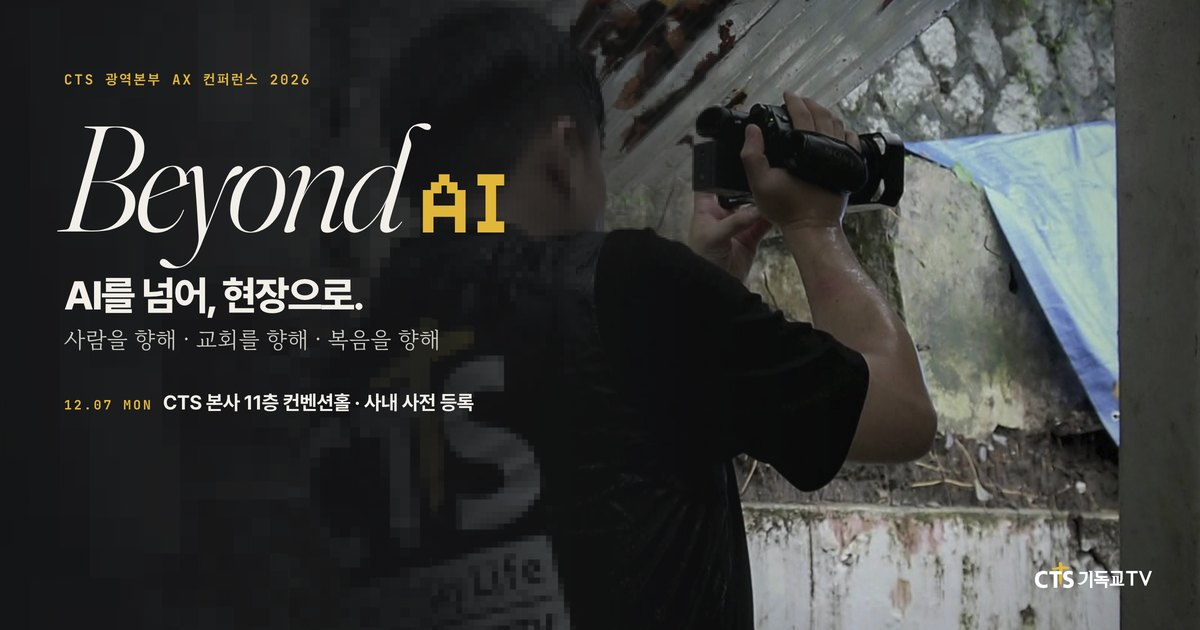
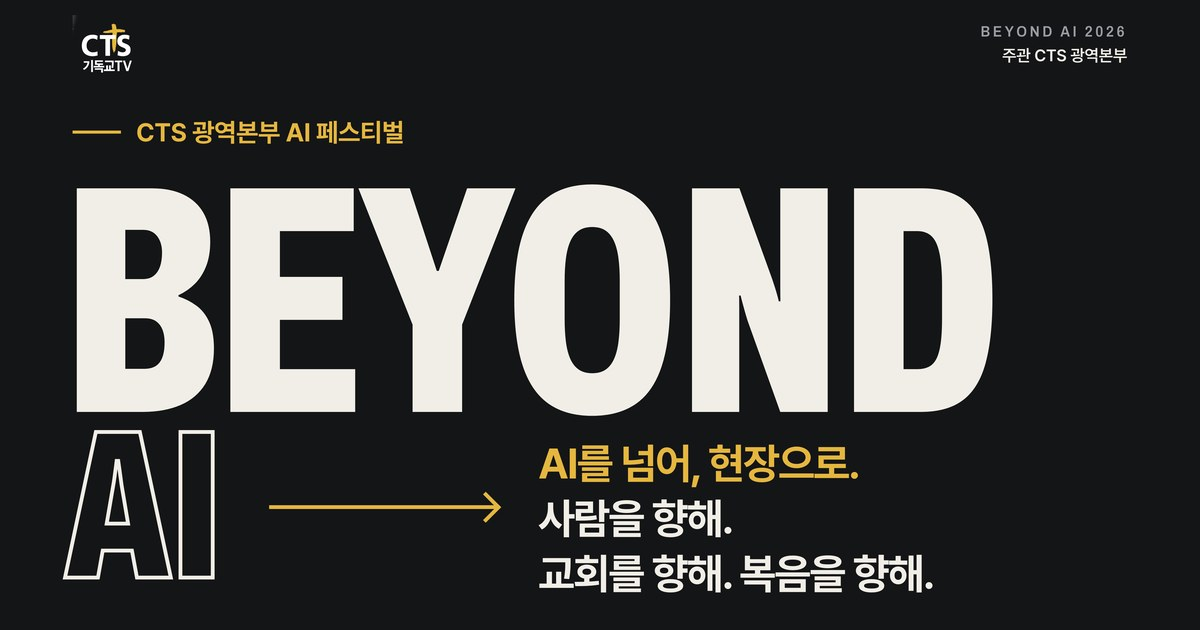
AI 페스티벌 구성 반영: 오전 핵심 발표, 오후 전 직원 3분, 주관 광역본부

diff --git a/index.html b/index.html
@@ -4,11 +4,11 @@
 <meta charset="utf-8">
 <meta name="viewport" content="width=device-width,initial-scale=1,viewport-fit=cover">
 <meta name="robots" content="noindex,nofollow">
-<title>Beyond AI 2026 · CTS 광역본부 AX 컨퍼런스</title>
-<meta name="description" content="AI를 넘어, 현장으로. 사람을 향해, 교회를 향해, 복음을 향해. 2026년 12월 7일(월) CTS 본사 11층 컨벤션홀. 사내 사전 등록자 입장.">
+<title>Beyond AI 2026 · CTS 광역본부 AI 페스티벌</title>
+<meta name="description" content="AI를 넘어, 현장으로. 사람을 향해, 교회를 향해, 복음을 향해. 2026년 12월 7일(월) CTS 본사 11층 컨벤션홀. 주관 CTS 광역본부. 타 본부와 자회사 임직원은 사전 등록 후 참여.">
 <meta property="og:type" content="website">
 <meta property="og:title" content="Beyond AI 2026 · AI를 넘어, 현장으로">
-<meta property="og:description" content="CTS 광역본부 AX 컨퍼런스 · 2026.12.07(월) CTS 컨벤션홀 11층 · 사내 사전 등록">
+<meta property="og:description" content="CTS 광역본부 AI 페스티벌 · 2026.12.07(월) 10:00~16:00 CTS 본사 11층 컨벤션홀 · 사전 등록">
 <meta property="og:image" content="https://bakcine1-boop.github.io/beyond-ai-2026/og.jpg">
 <meta property="og:image:width" content="1200"><meta property="og:image:height" content="630">
 <meta property="og:url" content="https://bakcine1-boop.github.io/beyond-ai-2026/">
@@ -18,7 +18,7 @@
 <link rel="preconnect" href="https://fonts.googleapis.com">
 <link rel="preconnect" href="https://fonts.gstatic.com" crossorigin>
 <link rel="preconnect" href="https://cdn.jsdelivr.net" crossorigin>
-<link href="https://fonts.googleapis.com/css2?family=Fraunces:ital,opsz,wght@0,9..144,300..600;1,9..144,300..500&family=JetBrains+Mono:wght@400;500;700&family=Pixelify+Sans:wght@500..700&display=swap" rel="stylesheet">
+<link href="https://fonts.googleapis.com/css2?family=Archivo:wdth,wght@62..100,600..800&family=Fraunces:ital,opsz,wght@0,9..144,300..600;1,9..144,300..500&family=JetBrains+Mono:wght@400;500;700&family=Pixelify+Sans:wght@500..700&display=swap" rel="stylesheet">
 <link rel="stylesheet" href="https://cdn.jsdelivr.net/gh/orioncactus/pretendard@v1.3.9/dist/web/variable/pretendardvariable-dynamic-subset.min.css">
 <link rel="preload" as="image" href="hero-poster.jpg">
 <style>
@@ -33,8 +33,8 @@
   --sans:'Pretendard Variable',Pretendard,-apple-system,BlinkMacSystemFont,'Apple SD Gothic Neo','Malgun Gothic',sans-serif;
   --serif:'Fraunces',Georgia,serif;
   --maru:'Maru','Pretendard Variable',serif;
-  --mono:'JetBrains Mono',ui-monospace,SFMono-Regular,Menlo,monospace;
-  --pix:'Pixelify Sans','JetBrains Mono',monospace;
+  --mono:'JetBrains Mono','Pretendard Variable',Pretendard,ui-monospace,Menlo,monospace;
+  --pix:'Pixelify Sans','Pretendard Variable',Pretendard,monospace;
   --ease:cubic-bezier(.2,.8,.16,1);--io:cubic-bezier(.76,0,.24,1);
   --pad:clamp(20px,4.4vw,76px);--max:1380px;
 }
@@ -118,10 +118,10 @@ button,input,select,textarea{font:inherit;color:inherit}
 .hero-in .wrap{display:grid;grid-template-columns:minmax(0,1fr) auto;gap:clamp(24px,4vw,64px);align-items:end}
 .eyebrow-h{font:500 12px/1 var(--mono);letter-spacing:.2em;color:var(--gold);text-transform:uppercase;margin-bottom:clamp(14px,2.2vh,24px);display:flex;gap:14px;align-items:center}
 .eyebrow-h::before{content:'';width:34px;height:1px;background:var(--gold)}
-.lockup{font-family:var(--serif);font-style:italic;font-weight:300;font-size:clamp(78px,14.4vw,236px);line-height:.84;letter-spacing:-.045em;font-variation-settings:'opsz' 144;display:flex;align-items:baseline;flex-wrap:wrap;margin-left:-.04em}
-.lockup .w{display:inline-block;overflow:hidden;padding:0 .06em .08em 0}
+.lockup{font-family:'Archivo',sans-serif;font-stretch:62%;font-weight:800;text-transform:uppercase;font-size:clamp(84px,15.6vw,252px);line-height:.86;letter-spacing:-.01em;display:flex;align-items:baseline;flex-wrap:wrap;margin-left:-.02em}
+.lockup .w{display:inline-block;overflow:hidden;padding:0 .04em .04em 0}
 .lockup .w>span{display:inline-block;transform:translateY(105%)}
-.lockup .ai{font-family:var(--pix);font-style:normal;font-weight:600;font-size:.6em;letter-spacing:.01em;color:var(--gold);margin-left:.22em;line-height:1}
+.lockup .ai{font-size:.66em;color:transparent;-webkit-text-stroke:2.5px var(--paper);margin-left:.14em;line-height:1;letter-spacing:0}
 .go .lockup .w>span{transform:none;transition:transform 1.25s var(--ease)}
 .go .lockup .w:nth-child(2)>span{transition-delay:.12s}
 .hero-ko{margin-top:clamp(18px,3vh,32px);display:flex;flex-wrap:wrap;align-items:baseline;gap:6px 22px}
@@ -404,8 +404,8 @@ footer .cr{width:100%;font:500 11.5px/1.6 var(--mono);letter-spacing:.06em;color
   .nav{height:60px}
   .hero .real{top:76px}
   .vctl{top:70px}
-  .lockup{font-size:clamp(70px,22vw,120px)}
-  .lockup .ai{margin-left:.16em}
+  .lockup{font-size:clamp(76px,24vw,128px)}
+  .lockup .ai{margin-left:.1em;-webkit-text-stroke:1.6px var(--paper)}
   .hero-ko b{font-size:22px;width:100%}
   .hero-ko span{font-size:16px}
   .hero-cta .btn{flex:1}
@@ -435,7 +435,7 @@ footer .cr{width:100%;font:500 11.5px/1.6 var(--mono);letter-spacing:.06em;color
 <div id="ld" aria-hidden="true">
   <div class="cw" id="ldw"><canvas id="ldc"></canvas></div>
   <div class="fr" id="ldf"><span class="res" id="ldr"><b>AI</b>72px</span></div>
-  <div class="tl"><span>Beyond AI 2026</span><span>CTS 광역본부 AX 컨퍼런스</span></div>
+  <div class="tl"><span>Beyond AI 2026</span><span>CTS 광역본부 AI 페스티벌</span></div>
   <p class="cap" id="ldcap"><span id="c1">AI를 넘어,</span> <span id="c2" class="g">현장으로.</span></p>
   <div class="bl"><span class="num" id="ldn">000<i>%</i></span><span>12.07 Mon — CTS Convention Hall 11F</span></div>
 </div>
@@ -445,14 +445,14 @@ footer .cr{width:100%;font:500 11.5px/1.6 var(--mono);letter-spacing:.06em;color
     <a class="brand" href="#top" aria-label="Beyond AI 2026 처음으로"><img src="cts-w.png" alt="CTS 기독교TV"><span>BEYOND AI 2026</span></a>
     <nav class="menu" aria-label="주요 메뉴">
       <a href="#about">소개</a><a href="#program">프로그램</a><a href="#voices">전원 발표</a><a href="#join">참여</a><a href="#venue">오시는 길</a>
-      <a class="room" href="room.html" title="광역본부 직원 전용"><svg width="12" height="12" viewBox="0 0 24 24" fill="none" stroke="currentColor" stroke-width="2"><rect x="4" y="10" width="16" height="11" rx="2"/><path d="M8 10V7a4 4 0 0 1 8 0v3"/></svg>준비실</a>
+      <a class="room" href="survey.html" title="광역본부 직원 전용"><svg width="12" height="12" viewBox="0 0 24 24" fill="none" stroke="currentColor" stroke-width="2"><rect x="4" y="10" width="16" height="11" rx="2"/><path d="M8 10V7a4 4 0 0 1 8 0v3"/></svg>직원 설문</a>
     </nav>
     <a class="btn gold sm" href="#rsvp">사전 등록</a>
     <button class="burger" id="burger" aria-label="메뉴 열기" aria-expanded="false"><i></i><i></i></button>
   </div>
 </header>
 <nav class="mnav" id="mnav" aria-label="모바일 메뉴">
-  <a href="#about">소개<small>01</small></a><a href="#direction">네 개의 방향<small>02</small></a><a href="#program">프로그램<small>03</small></a><a href="#voices">전원 발표<small>04</small></a><a href="#join">참여<small>05</small></a><a href="#venue">오시는 길<small>07</small></a><a href="room.html">발표 준비실<small>직원 전용</small></a>
+  <a href="#about">소개<small>01</small></a><a href="#direction">네 개의 방향<small>02</small></a><a href="#program">프로그램<small>03</small></a><a href="#voices">전원 발표<small>04</small></a><a href="#join">참여<small>05</small></a><a href="#venue">오시는 길<small>07</small></a><a href="survey.html">광역본부 직원 설문<small>직원 전용</small></a>
   <a class="btn gold" href="#rsvp">사전 등록하기</a>
 </nav>
 
@@ -465,15 +465,16 @@ footer .cr{width:100%;font:500 11.5px/1.6 var(--mono);letter-spacing:.06em;color
   <div class="hero-in">
     <div class="wrap">
       <div>
-        <p class="eyebrow-h fx d1">CTS 광역본부 AX 컨퍼런스</p>
+        <p class="eyebrow-h fx d1">CTS 광역본부 AI 페스티벌</p>
         <h1 class="lockup" aria-label="Beyond AI"><span class="w"><span>Beyond</span></span><span class="w"><span class="ai">AI</span></span></h1>
         <p class="hero-ko fx d2"><b>AI를 넘어, 현장으로.</b><span>사람을 향해 · 교회를 향해 · 복음을 향해</span></p>
         <div class="hero-cta fx d3"><a class="btn gold" href="#rsvp">사전 등록하기<svg viewBox="0 0 24 24" fill="none" stroke="currentColor" stroke-width="2"><path d="M5 12h14M13 6l6 6-6 6"/></svg></a><a class="btn line" href="#program">프로그램 보기</a></div>
       </div>
       <dl class="meta fx d3">
-        <div><dt>DATE</dt><dd>2026. 12. 7. 오전 10시<small>MON</small></dd></div>
+        <div><dt>DATE</dt><dd>2026. 12. 7. 월<small>10:00~16:00</small></dd></div>
         <div><dt>VENUE</dt><dd>CTS 본사 11층 컨벤션홀</dd></div>
-        <div><dt>ENTRY</dt><dd>사내 사전 등록자</dd></div>
+        <div><dt>HOST</dt><dd>CTS 광역본부</dd></div>
+        <div><dt>ENTRY</dt><dd>CTS 임직원 사전 등록</dd></div>
         <div><dt>COUNTDOWN</dt><dd class="dd" id="dday">D-00</dd></div>
       </dl>
     </div>
@@ -527,7 +528,7 @@ footer .cr{width:100%;font:500 11.5px/1.6 var(--mono);letter-spacing:.06em;color
 <section class="sec dark" id="program">
   <div class="wrap">
     <div class="prog-top">
-      <div class="dir-head" style="margin-bottom:0"><div><p class="eyebrow rv"><span class="n">03</span>프로그램</p><h2 class="h2 rv d1">하루,<br><em>세 개의 장</em></h2></div><p class="lead rv d2">발제로 방향을 잡고, 전원 발표로 서로의 한 달을 보고, 선정과 선포로 2027년을 엽니다.</p></div>
+      <div class="dir-head" style="margin-bottom:0"><div><p class="eyebrow rv"><span class="n">03</span>프로그램</p><h2 class="h2 rv d1">오전은 핵심,<br><em>오후는 전 직원.</em></h2></div><p class="lead rv d2">오전 두 시간에 방향과 핵심 사례를 듣고, 오후에는 광역본부 전 직원이 한 사람씩 3분 동안 직접 해 본 일을 보여 드립니다. 오전만 참여하셔도 됩니다.</p></div>
       <div class="road rv d2" id="road" aria-label="준비 일정">
         <div class="ttl"><span>ROAD TO 12.07</span><b id="roadD">D-00</b></div>
         <div class="rail" id="rail"><i id="railFill"></i></div>
@@ -535,15 +536,10 @@ footer .cr{width:100%;font:500 11.5px/1.6 var(--mono);letter-spacing:.06em;color
     </div>
 
     <div class="part rv">
-      <div class="pl"><span class="mono">OPENING</span><h3>여는 시간</h3><p>Opening</p></div>
-      <div class="pr"><p>예배와 기도로 문을 엽니다. 11월 9일 킥오프부터 오늘까지, 광역본부 한 달의 기록을 영상으로 함께 봅니다.</p></div>
-    </div>
-
-    <div class="part rv">
-      <div class="pl"><span class="mono">PART 1</span><h3>발제</h3><p>Keynote</p></div>
+      <div class="pl"><span class="mono">10:00 – 12:00</span><h3>핵심 발표</h3><p>Morning Keynotes</p></div>
       <div class="pr">
         <div class="talks">
-          <article class="talk"><span class="k">KEYNOTE 01</span><h4>왜 Beyond AI인가</h4><p>AI First 엑소더스, 그다음 이야기. 광역본부가 AI로 무엇을 바꾸고 어디로 가려 하는지 큰 그림을 나눕니다.</p><div class="who"><b>강경원</b><span>부사장 · 광역본부장</span></div></article>
+          <article class="talk"><span class="k">KEYNOTE 01</span><h4>왜 Beyond AI인가</h4><p>AI First 엑소더스, 그다음 이야기. 광역본부가 AI로 무엇을 바꾸고 어디로 가려 하는지 큰 그림을 나눕니다.</p><div class="who"><b>강경원</b><span>부사장 · 광역본부장 · 진행</span></div></article>
           <article class="talk"><span class="k">KEYNOTE 02</span><span class="live">LIVE DEMO</span><h4>제작의 문법이 바뀌었다</h4><p>작가·성우·조연출 없이 만든 방송, 그리고 촬영부터 편집·음악·자막까지 이어지는 자동화를 무대에서 바로 보여 줍니다.</p><div class="who"><b>박대훈</b><span>국장 · 콘텐츠지원국 · 예정</span></div></article>
           <article class="talk"><span class="k">CASE STUDY</span><h4>현장에서 쓰는 AI</h4><p>뉴스 취재와 기사 작업에 AI를 어떻게 들였는지, 지역 현장의 실제 사례로 풀어 봅니다.</p><div class="who"><b>노찬영</b><span>총국장 · 호남총국 · 예정</span></div></article>
         </div>
@@ -551,26 +547,18 @@ footer .cr{width:100%;font:500 11.5px/1.6 var(--mono);letter-spacing:.06em;color
     </div>
 
     <div class="part rv">
-      <div class="pl"><span class="mono">PART 2</span><h3>전원 발표</h3><p>All Voices</p></div>
-      <div class="pr">
-        <p>광역본부 직원이 한 사람씩 무대에 섭니다. 지난 한 달 직접 해 본 일을 세 가지 주제로 나눠, 한 사람당 5분 안에 보여 줍니다.</p>
-        <div class="chips"><span class="chip g">Track 01 · 업무</span><span class="chip g">Track 02 · 교회</span><span class="chip g">Track 03 · 세상과의 소통</span><span class="chip">1인 5분</span><span class="chip">결과물 시연</span></div>
-      </div>
+      <div class="pl"><span class="mono">12:00 – 13:30</span><h3>점심</h3><p>Lunch</p></div>
+      <div class="pr"><p>오전만 참여하시는 분은 여기까지입니다. 오후 발표도 편하게 들르실 수 있습니다.</p></div>
     </div>
 
     <div class="part rv">
-      <div class="pl"><span class="mono">PART 3</span><h3>선정과 선포</h3><p>Pick &amp; Declare</p></div>
+      <div class="pl"><span class="mono">13:30 – 16:00</span><h3>전 직원 3분 발표</h3><p>All Voices</p></div>
       <div class="pr">
-        <p>현장 투표와 심사로 교회 현장에 바로 적용할 사례를 고르고, 2027년 시범 과제로 선포합니다.</p>
-        <div class="mini"><div><b>선정 기준</b>사명 기여 · 교회 수요 · 확산 가능성 · 지속성</div><div><b>결과</b>2027 파일럿 과제 확정</div><div><b>총평</b>강경원 부사장</div></div>
+        <p>전국 12개 지사와 본부의 광역본부 직원이 한 사람씩 무대에 섭니다. 지난 한 달 직접 해 본 일을 세 가지 영역으로 나눠 3분 안에 보여 줍니다. 마지막에 총평과 기도로 마칩니다.</p>
+        <div class="chips"><span class="chip g">업무</span><span class="chip g">교회</span><span class="chip g">세상과의 소통</span><span class="chip">1인 3분</span><span class="chip">결과물 시연</span></div>
       </div>
     </div>
-
-    <div class="part rv">
-      <div class="pl"><span class="mono">CLOSING</span><h3>마치는 시간</h3><p>Closing</p></div>
-      <div class="pr"><p>기도로 마칩니다. 이날 발표된 모든 사례는 행사 뒤 발표 준비실에 모아 함께 봅니다.</p></div>
-    </div>
-    <p class="note">* 오전 10시 시작. 세부 시간과 발표 순서는 확정되는 대로 이곳에 공개합니다.</p>
+    <p class="note">* 발표 제목과 순서는 확정되는 대로 이곳에 공개합니다.</p>
   </div>
 </section>
 
@@ -581,7 +569,7 @@ footer .cr{width:100%;font:500 11.5px/1.6 var(--mono);letter-spacing:.06em;color
       <p class="eyebrow rv"><span class="n">04</span>전원 발표</p>
       <h2 class="h2 rv d1">12개 지사에서,<br><em>한 사람씩.</em></h2>
       <p class="lead rv d2" style="margin-top:28px">12월 7일, 전국의 광역본부 직원이 본사로 올라옵니다. 누가 더 잘했는지를 겨루는 자리가 아니라, 서로의 한 달에서 배우는 자리입니다.</p>
-      <div class="stats rv d3"><div><b>40+</b><span>발표자</span></div><div><b>12</b><span>지사</span></div><div><b>3</b><span>트랙</span></div><div><b>5′</b><span>1인 발표</span></div></div>
+      <div class="stats rv d3"><div><b>40+</b><span>발표자</span></div><div><b>12</b><span>지사</span></div><div><b>3</b><span>트랙</span></div><div><b>3′</b><span>1인 발표</span></div></div>
     </div>
     <div class="rv d2">
       <div class="kmap" id="kmap" role="img" aria-label="전국 12개 지사에서 서울 본사로 모이는 지도"></div>
@@ -595,7 +583,7 @@ footer .cr{width:100%;font:500 11.5px/1.6 var(--mono);letter-spacing:.06em;color
       <article class="trk rv d2"><img src="t3-world.jpg" alt="강을 건너 현장으로 가는 CTS 직원" loading="lazy" style="object-position:62% 50%"><span class="no">TRACK 03</span><h3><small>세상에 말을 건 이야기</small>세상과의 소통</h3><p>뉴스, SNS, 영상으로 교회 밖 사람들과 만난 새로운 방법.</p></article>
     </div>
     <div class="rules rv">
-      <div class="rule"><span class="mono">RULE 01</span><h4>5분, 한 장면</h4><p>여러 개를 소개하기보다 가장 잘 된 한 가지를 깊게 보여 줍니다.</p></div>
+      <div class="rule"><span class="mono">RULE 01</span><h4>3분, 한 장면</h4><p>여러 개를 소개하기보다 가장 잘 된 한 가지를 깊게 보여 줍니다.</p></div>
       <div class="rule"><span class="mono">RULE 02</span><h4>전과 후를 숫자로</h4><p>걸리던 시간과 지금 걸리는 시간, 바뀐 결과를 숫자로 말합니다.</p></div>
       <div class="rule"><span class="mono">RULE 03</span><h4>사람이 확인한 것</h4><p>AI에게 맡긴 일과 사람이 직접 확인한 일을 나눠서 공개합니다.</p></div>
     </div>
@@ -612,16 +600,16 @@ footer .cr{width:100%;font:500 11.5px/1.6 var(--mono);letter-spacing:.06em;color
     <div class="join-grid">
       <article class="ev rv"><span class="lbl">LIVE CLINIC<i>01</i></span>
         <svg class="ic" viewBox="0 0 56 56" fill="none"><rect x="1" y="1" width="54" height="54" rx="3" stroke="#151515" stroke-width="1.5"/><path d="M14 20h12M14 28h20M14 36h8" stroke="#151515" stroke-width="2"/><rect x="34" y="32" width="8" height="8" fill="#f0b828"/><rect x="42" y="24" width="6" height="6" fill="#f0b828"/></svg>
-        <h4>맡기고 싶은 일,<br>무대에서 바로</h4><p>사전 등록 때 적어 주신 '내 일 한 가지' 가운데 몇 가지를 골라, 그 자리에서 AI로 풀어 봅니다.</p><span class="when">PART 1 · 발제 중</span></article>
+        <h4>맡기고 싶은 일,<br>무대에서 바로</h4><p>사전 등록 때 적어 주신 '내 일 한 가지' 가운데 몇 가지를 골라, 그 자리에서 AI로 풀어 봅니다.</p><span class="when">오전 핵심 발표 중</span></article>
       <article class="ev rv d1"><span class="lbl">BEYOND PICK<i>02</i></span>
         <svg class="ic" viewBox="0 0 56 56" fill="none"><rect x="1" y="1" width="54" height="54" rx="3" stroke="#151515" stroke-width="1.5"/><path d="M14 40V28M24 40V18M34 40V24M44 40V12" stroke="#151515" stroke-width="3"/><path d="M40 12h8" stroke="#f0b828" stroke-width="3"/></svg>
-        <h4>우리 교회에<br>바로 쓰고 싶은 발표</h4><p>트랙마다 휴대폰으로 한 표를 던집니다. 많이 받은 사례는 2027 파일럿 후보에 오릅니다.</p><span class="when">PART 2 → PART 3</span></article>
+        <h4>우리 교회에<br>바로 쓰고 싶은 발표</h4><p>오후 발표를 보며 휴대폰으로 한 표를 던집니다. 많이 받은 사례는 맺음 시간에 다시 소개합니다.</p><span class="when">오후 전 직원 발표</span></article>
       <article class="ev rv d2"><span class="lbl">HUMAN OR AI<i>03</i></span>
         <svg class="ic" viewBox="0 0 56 56" fill="none"><rect x="1" y="1" width="54" height="54" rx="3" stroke="#151515" stroke-width="1.5"/><circle cx="20" cy="26" r="7" stroke="#151515" stroke-width="2"/><path d="M10 42c2-6 6-8 10-8s8 2 10 8" stroke="#151515" stroke-width="2"/><rect x="34" y="20" width="4" height="4" fill="#f0b828"/><rect x="40" y="20" width="4" height="4" fill="#f0b828"/><rect x="34" y="26" width="4" height="4" fill="#f0b828"/><rect x="40" y="32" width="4" height="4" fill="#f0b828"/></svg>
-        <h4>사람이 했을까,<br>AI가 했을까</h4><p>실제 결과물을 보고 맞히는 블라인드 퀴즈. 정답보다 '어디서 알아봤는지'가 더 중요합니다.</p><span class="when">쉬는 시간</span></article>
+        <h4>사람이 했을까,<br>AI가 했을까</h4><p>실제 결과물을 보고 맞히는 블라인드 퀴즈. 정답보다 '어디서 알아봤는지'가 더 중요합니다.</p><span class="when">점심·쉬는 시간</span></article>
       <article class="ev rv d3"><span class="lbl">AX LOUNGE<i>04</i></span>
         <svg class="ic" viewBox="0 0 56 56" fill="none"><rect x="1" y="1" width="54" height="54" rx="3" stroke="#151515" stroke-width="1.5"/><path d="M12 22h24v10a8 8 0 0 1-8 8h-8a8 8 0 0 1-8-8V22Z" stroke="#151515" stroke-width="2"/><path d="M36 25h4a4 4 0 0 1 0 8h-4" stroke="#151515" stroke-width="2"/><rect x="18" y="12" width="4" height="4" fill="#f0b828"/><rect x="26" y="8" width="4" height="4" fill="#f0b828"/></svg>
-        <h4>내 일도 될까요?<br>1:1 상담</h4><p>쉬는 시간마다 로비에서 광역본부 직원이 내 업무에 맞는 AI 활용법을 함께 찾아 드립니다.</p><span class="when">로비 · 쉬는 시간</span></article>
+        <h4>내 일도 될까요?<br>1:1 상담</h4><p>쉬는 시간마다 로비에서 광역본부 직원이 내 업무에 맞는 AI 활용법을 함께 찾아 드립니다.</p><span class="when">로비 · 점심 시간</span></article>
     </div>
   </div>
 </section>
@@ -633,10 +621,11 @@ footer .cr{width:100%;font:500 11.5px/1.6 var(--mono);letter-spacing:.06em;color
       <p class="eyebrow rv"><span class="n">06</span>사전 등록</p>
       <h2 class="h2 rv d1">자리는<br><em>등록하신 분께만</em><br>열립니다.</h2>
       <dl class="rs-info rv d2">
-        <div><dt>대상</dt><dd>CTS기독교TV와 계열사 임직원</dd></div>
-        <div><dt>일시</dt><dd>2026년 12월 7일 월요일 오전 10시</dd></div>
+        <div><dt>대상</dt><dd>CTS 타 본부와 자회사 임직원</dd></div>
+        <div><dt>일시</dt><dd>2026년 12월 7일 월요일 10:00~16:00</dd></div>
         <div><dt>장소</dt><dd>CTS 본사 11층 컨벤션홀</dd></div>
-        <div><dt>입장</dt><dd>사전 등록자 · 듣고 싶은 순서만 오셔도 됩니다</dd></div>
+        <div><dt>입장</dt><dd>사전 등록자 · 오전만 참여하셔도 됩니다</dd></div>
+        <div><dt>주관</dt><dd>CTS 광역본부</dd></div>
       </dl>
       <p class="cnt rv d3" id="cnt" hidden></p>
     </div>
@@ -647,7 +636,7 @@ footer .cr{width:100%;font:500 11.5px/1.6 var(--mono);letter-spacing:.06em;color
           <div><label class="fl" for="f-org">소속</label><select class="fi" id="f-org" name="org" required><option value="">선택해 주세요</option><option>CTS기독교TV</option><option>CTSN</option><option>디멕스</option><option>CTS인터내셔널</option><option>CTS문화재단</option><option>조이앤컴</option><option>행복한출생든든한미래</option><option>기타</option></select></div>
           <div class="w"><label class="fl" for="f-dept">부서</label><input class="fi" id="f-dept" name="dept" required maxlength="40" placeholder="예) 방송본부 제작국"></div>
           <div class="w"><span class="fl">듣고 싶은 순서<small>여러 개 고를 수 있어요</small></span>
-            <div class="picks"><label><input type="checkbox" name="part" value="종일"><span>종일</span></label><label><input type="checkbox" name="part" value="1부 발제"><span>1부 발제</span></label><label><input type="checkbox" name="part" value="2부 전원 발표"><span>2부 전원 발표</span></label><label><input type="checkbox" name="part" value="3부 선정과 선포"><span>3부 선정과 선포</span></label></div></div>
+            <div class="picks"><label><input type="checkbox" name="part" value="종일"><span>종일</span></label><label><input type="checkbox" name="part" value="오전 핵심 발표"><span>오전 핵심 발표 (10:00~12:00)</span></label><label><input type="checkbox" name="part" value="오후 전 직원 발표"><span>오후 전 직원 발표 (13:30~16:00)</span></label></div></div>
           <div class="w"><label class="fl" for="f-wish">AI에게 맡기고 싶은 내 일 한 가지<small>선택 · 라이브 클리닉에서 골라 풀어 봅니다</small></label><textarea class="fi" id="f-wish" name="wish" maxlength="300" placeholder="예) 매주 회의록을 정리해 보고서로 바꾸는 일"></textarea></div>
           <div class="w"><label class="fl" for="f-contact">연락처<small>선택 · 일정이 바뀔 때만 연락드립니다</small></label><input class="fi" id="f-contact" name="contact" maxlength="40" inputmode="tel" placeholder="010-0000-0000"></div>
           <input class="hp" name="hp" tabindex="-1" autocomplete="off" aria-hidden="true">
@@ -656,9 +645,9 @@ footer .cr{width:100%;font:500 11.5px/1.6 var(--mono);letter-spacing:.06em;color
         <div class="f-act"><span class="err" id="rerr" role="alert"></span><button class="btn ink" type="submit" id="rbtn">자리 맡기<svg viewBox="0 0 24 24" fill="none" stroke="currentColor" stroke-width="2"><path d="M5 12h14M13 6l6 6-6 6"/></svg></button></div>
       </form>
       <div class="ticket" id="ticket" aria-live="polite">
-        <div class="tt"><span class="mono">ADMIT ONE · 사전 등록 완료</span><h3>Beyond<b>AI</b></h3><p style="color:var(--mute);font-size:14px">CTS 광역본부 AX 컨퍼런스 2026</p></div>
+        <div class="tt"><span class="mono">ADMIT ONE · 사전 등록 완료</span><h3>Beyond<b>AI</b></h3><p style="color:var(--mute);font-size:14px">CTS 광역본부 AI 페스티벌 2026</p></div>
         <div class="perf"></div>
-        <dl class="tb"><div><dt>NAME</dt><dd id="tk-name">-</dd></div><div><dt>NO.</dt><dd class="no" id="tk-no">000</dd></div><div><dt>소속</dt><dd id="tk-org">-</dd></div><div><dt>DATE</dt><dd>2026.12.07 MON</dd></div><div style="grid-column:1/-1"><dt>순서</dt><dd id="tk-part">-</dd></div></dl>
+        <dl class="tb"><div><dt>NAME</dt><dd id="tk-name">-</dd></div><div><dt>NO.</dt><dd class="no" id="tk-no">000</dd></div><div><dt>소속</dt><dd id="tk-org">-</dd></div><div><dt>DATE</dt><dd>2026.12.07 MON 10:00</dd></div><div style="grid-column:1/-1"><dt>순서</dt><dd id="tk-part">-</dd></div></dl>
         <p class="tf">이 화면을 캡처해 두시면 입장 확인이 빨라집니다. 같은 이름·소속·부서로 다시 등록하면 내용이 바뀝니다.</p>
       </div>
     </div>
@@ -683,8 +672,8 @@ footer .cr{width:100%;font:500 11.5px/1.6 var(--mono);letter-spacing:.06em;color
 
 <footer>
   <div class="wrap">
-    <div class="l"><img src="cts-w.png" alt="CTS 기독교TV"><p>Beyond AI 2026 · CTS 광역본부 AX 컨퍼런스<br>사내 행사 · 사전 등록자 입장</p></div>
-    <a class="room" href="room.html">광역본부 직원이신가요? 발표 준비실 <svg width="16" height="16" viewBox="0 0 24 24" fill="none" stroke="currentColor" stroke-width="2"><path d="M5 12h14M13 6l6 6-6 6"/></svg></a>
+    <div class="l"><img src="cts-w.png" alt="CTS 기독교TV"><p>Beyond AI 2026 · CTS 광역본부 AI 페스티벌<br>주관 CTS 광역본부 · 사전 등록자 입장</p></div>
+    <a class="room" href="survey.html">광역본부 직원이신가요? 1차 설문 <svg width="16" height="16" viewBox="0 0 24 24" fill="none" stroke="currentColor" stroke-width="2"><path d="M5 12h14M13 6l6 6-6 6"/></svg></a>
     <div class="cr"><span>기획과 검수는 사람이, 제작은 AI와 함께 했습니다.</span><span>배경 영상과 사진은 모두 CTS 실제 현장 기록입니다.</span></div>
   </div>
 </footer>
